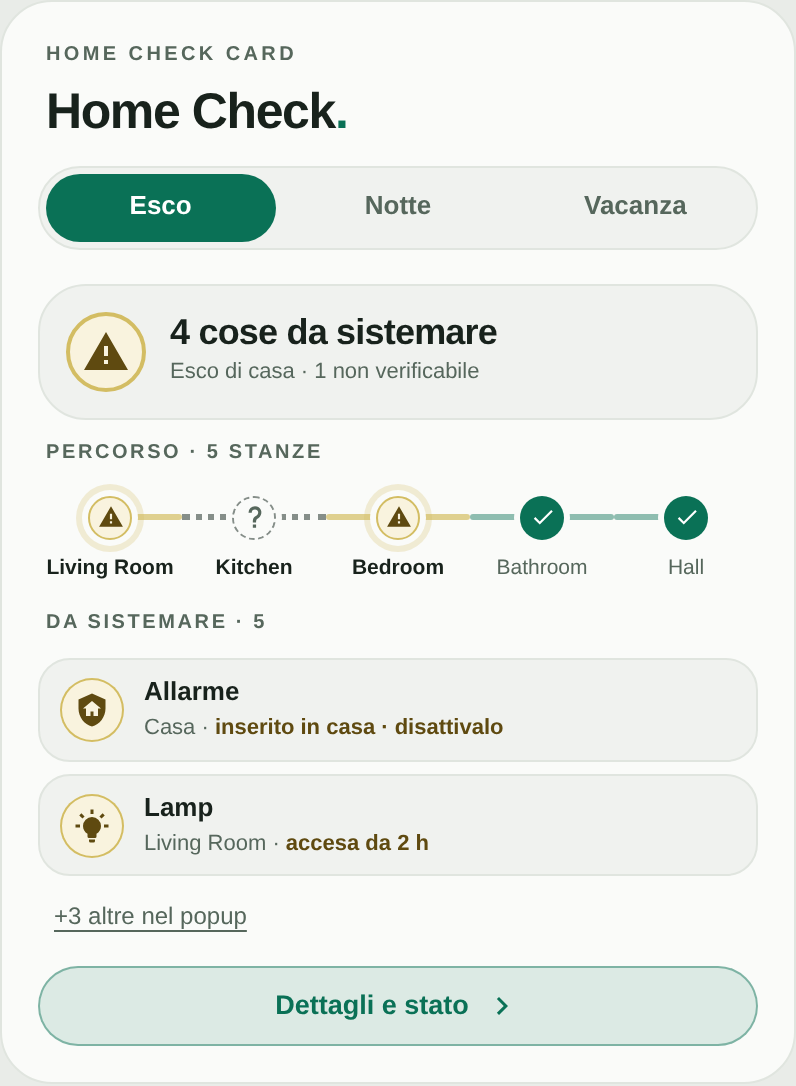
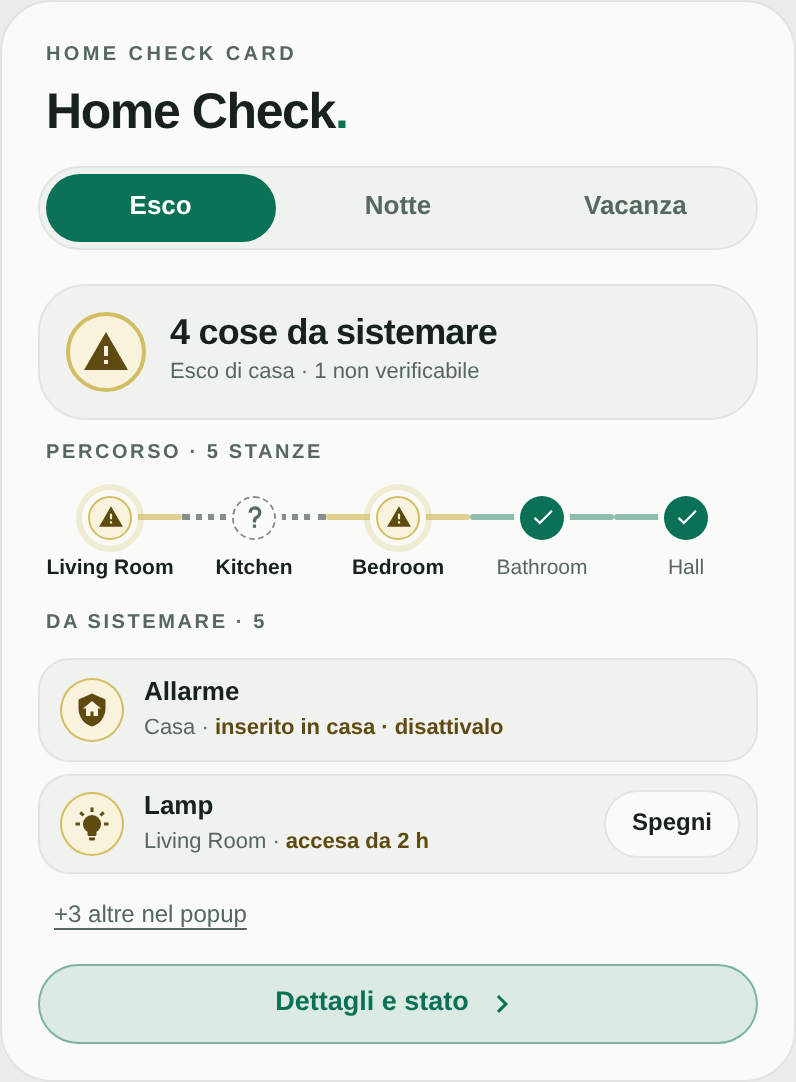
Add quick actions to card rows, keep card height stable and stop moving the page behind the popup

diff --git a/dist/home-check-card.js b/dist/home-check-card.js
@@ -1,5 +1,5 @@
 /**
- * Home Check Card — Home Assistant dashboard card. Version 1.3
+ * Home Check Card — Home Assistant dashboard card. Version 1.4
  * Copyright (c) 2026 luigi-regolo. SPDX-License-Identifier: GPL-3.0-only.
  * Quick actions are optional: turn off lights, TVs and plugs, close covers, arm or disarm the alarm with a code. Locks are never commanded.
  * No external scripts, fonts, analytics or assets.
@@ -7,7 +7,7 @@
 (() => {
   'use strict';
 
-  const VERSION = '1.3';
+  const VERSION = '1.4';
   const TAG = 'home-check-card';
   const EDITOR_TAG = 'home-check-card-editor';
 
@@ -314,6 +314,11 @@
 .hc button.hc-row{cursor:pointer}
 .hc button.hc-row:hover{border-color:color-mix(in srgb,var(--hc-accent) 45%,var(--hc-line))}
 .hc-ico{width:32px;height:32px;flex:none;border-radius:50%;display:grid;place-items:center;background:var(--hc-circle);--is:18px}
+.hc-row{min-height:50px;box-sizing:border-box}
+.hc-ph{visibility:hidden;pointer-events:none}
+.hc-ract{padding:6px 8px 6px 10px}
+.hc-rmain{display:flex;flex:1;align-items:center;gap:10px;min-width:0;background:none;border:0;padding:0;margin:0;color:inherit;font:inherit;text-align:left}
+.hc button.hc-rmain{cursor:pointer}
 .hc-row[data-lv="warn"] .hc-ico{background:var(--hc-warn-bg);box-shadow:inset 0 0 0 1px var(--hc-warn-bd);color:var(--hc-warn-fg)}
 .hc-row[data-lv="crit"] .hc-ico{background:var(--hc-crit-bg);box-shadow:inset 0 0 0 1px var(--hc-crit-bd);color:var(--hc-crit-fg)}
 .hc-row[data-lv="unk"] .hc-ico{border:1.5px dashed var(--hc-idle);color:var(--hc-muted)}
@@ -427,7 +432,6 @@
       this._profile = 'esco'; this._compact = true;
       this._popup = false; this._view = 'list'; this._code = ''; this._pend = {}; this._confirm = false; this._alarmBusy = false; this._alarmErr = ''; this._aconf = false;
       this._filter = 'all'; this._room = null; this._ret = 'open'; this._focus = '';
-      this._prevOverflow = null;
       this._onKey = (e) => this._key(e);
       this._onResize = () => { this._applyLayout(); if (this._popup && this._colCount() !== this._cols) this._render(); };
       this._timer = null; this._ro = null;
@@ -477,7 +481,6 @@
       document.removeEventListener('keydown', this._onKey, true);
       if (this._timer) window.clearInterval(this._timer);
       if (this._ro) this._ro.disconnect();
-      this._unlock();
     }
 
     _applyLayout() {
@@ -512,6 +515,15 @@
     _rowHTML(c) {
       const panel = c.kind === 'alarm' && this._cfg.alarm_panel && c.entity_id;
       const tap = panel || (this._cfg.row_tap && c.entity_id);
+      const act = this._actFor(c);
+      if (act) {
+        const st = this._pend[c.entity_id] || '';
+        const lab = st === 'busy' ? 'Invio…' : st === 'fail' ? 'Riprova' : act.label;
+        const mt = tap ? 'button type="button" data-entity="' + esc(c.entity_id) + '" data-focus="r-' + esc(c.entity_id) + '"' : 'div', me = tap ? 'button' : 'div';
+        return '<div class="hc-row hc-ract" data-lv="' + c.lv + '"><' + mt + ' class="hc-rmain">' +
+          '<div class="hc-ico">' + ic(iconFor(c)) + '</div><div class="hc-rt"><div class="hc-rn">' + esc(c.name) + '</div><div class="hc-rs">' + esc(c.room) + ' \u00b7 <span class="d">' + esc(c.detail) + '</span></div></div></' + me + '>' +
+          '<button type="button" class="hc-do" data-do="' + esc(c.entity_id) + '" data-s="' + st + '" data-focus="d-' + esc(c.entity_id) + '"' + (st === 'busy' ? ' disabled' : '') + '>' + lab + '</button></div>';
+      }
       const tagN = tap ? 'button type="button"' : 'div', end = tap ? 'button' : 'div';
       return '<' + tagN + ' class="hc-row" data-lv="' + c.lv + '"' + (tap ? (panel ? ' data-alarm="1"' : ' data-entity="' + esc(c.entity_id) + '"') + ' data-focus="r-' + esc(c.entity_id) + '"' : '') + '>' +
         '<div class="hc-ico">' + ic(iconFor(c)) + '</div><div class="hc-rt"><div class="hc-rn">' + esc(c.name) + '</div><div class="hc-rs">' + esc(c.room) + ' \u00b7 <span class="d">' + esc(c.detail) + '</span></div></div>' +
@@ -661,7 +673,7 @@
     _openAlarm() {
       this._ret = 'r-' + this._cfg.alarm_entity; this._view = 'alarm'; this._code = ''; this._alarmErr = ''; this._aconf = false; this._alarmBusy = false;
       this._popup = true; this._focus = 'close';
-      this._lock(); document.addEventListener('keydown', this._onKey, true);
+      document.addEventListener('keydown', this._onKey, true);
       this._render();
     }
     _alarmGo(act) {
@@ -702,8 +714,12 @@
         (i > 0 ? '<i class="hc-sl"></i>' : '') + (i < D.rooms.length - 1 ? '<i class="hc-sr"></i>' : '') +
         '<span class="hc-node">' + ic(NODE_ICON[r.lv]) + '</span><span class="hc-sname">' + esc(r.name) + '</span><span class="hc-snote">' + esc(r.note) + '</span></button>').join('');
       let list = '<div class="hc-label">Da sistemare' + (D.items.length ? ' \u00b7 ' + D.items.length : '') + '</div><div class="hc-items">' + shown.map((c) => this._rowHTML(c)).join('');
+      const slots = Math.max(1, capRows), filled = shown.length + (D.items.length ? 0 : 1);
       if (more > 0) list += '<button type="button" class="hc-more" data-open="1" data-focus="more">+' + more + (more === 1 ? ' altra nel popup' : ' altre nel popup') + '</button>';
       if (!D.items.length) list += '<div class="hc-row hc-empty"><div class="hc-ico">' + ic(D.checks.length ? 'mdi:check' : 'mdi:minus') + '</div><div class="hc-rt"><div class="hc-rn">' + (D.checks.length ? 'Niente da sistemare' : 'Nessun controllo attivo') + '</div><div class="hc-rs" style="white-space:normal">' + (D.checks.length ? 'Tutti i controlli del profilo ' + esc(prof.label) + ' sono a posto' : 'Abilita una categoria nell\u2019editor') + '</div></div></div>';
+      for (let i = filled; i < slots; i++) list += '<div class="hc-row hc-ph" aria-hidden="true"></div>';
+      if (more <= 0) list += '<div class="hc-more hc-ph" aria-hidden="true">&nbsp;</div>';
+      if (this._profile !== 'vacanza' && cfg.simulation_entity) list += '<div class="hc-sim hc-ph" aria-hidden="true">' + ic('mdi:clock-outline') + '<span>Simulazione presenza non attiva</span></div>';
       if (this._profile === 'vacanza' && cfg.simulation_entity) {
         const ss = hass.states[cfg.simulation_entity];
         list += '<div class="hc-sim">' + ic('mdi:clock-outline') + '<span>' + (ss && ss.state === 'on' ? 'Simulazione presenza attiva' : (ss && (ss.state === 'unavailable' || ss.state === 'unknown') ? 'Simulazione presenza non verificabile' : 'Simulazione presenza non attiva')) + '</span></div>';
@@ -726,6 +742,7 @@
           this._room = null;
         }
       }
+      if (this._popup) this._lockScroll();
       if (want) { const el = root.querySelector('[data-focus="' + want + '"]'); if (el) el.focus({ preventScroll: true }); }
     }
 
@@ -756,16 +773,26 @@
     }
     _openPopup(room, ret) {
       this._ret = ret || 'open'; this._popup = true; this._view = 'list'; this._confirm = false; this._filter = compute(this._hass, this._cfg, this._profile).items.length ? 'bad' : 'all'; this._room = room; this._focus = 'close';
-      this._lock(); document.addEventListener('keydown', this._onKey, true);
+      document.addEventListener('keydown', this._onKey, true);
       this._render();
     }
     _closePopup(silent) {
       if (!this._popup) return;
-      this._popup = false; this._view = 'list'; this._code = ''; this._alarmErr = ''; this._aconf = false; this._confirm = false; document.removeEventListener('keydown', this._onKey, true); this._unlock();
+      this._popup = false; this._view = 'list'; this._code = ''; this._alarmErr = ''; this._aconf = false; this._confirm = false; document.removeEventListener('keydown', this._onKey, true);
       this._focus = silent ? '' : this._ret; this._render();
     }
-    _lock() { if (this._prevOverflow === null) { this._prevOverflow = document.documentElement.style.overflow || ''; document.documentElement.style.overflow = 'hidden'; } }
-    _unlock() { if (this._prevOverflow !== null) { document.documentElement.style.overflow = this._prevOverflow; this._prevOverflow = null; } }
+    // While the popup is open the dashboard behind must not move: the page is never restyled,
+    // scroll gestures that would leave the dialog body are simply cancelled.
+    _lockScroll() {
+      const overlay = this._root.querySelector('.hc-backdrop');
+      if (!overlay) return;
+      const body = overlay.querySelector('.hc-mbody');
+      const atEdge = (dy) => !body || (dy < 0 && body.scrollTop <= 0) || (dy > 0 && body.scrollTop + body.clientHeight >= body.scrollHeight - 1);
+      overlay.addEventListener('wheel', (e) => { if (!body || !body.contains(e.target) || atEdge(e.deltaY)) e.preventDefault(); }, { passive: false });
+      let y = 0;
+      overlay.addEventListener('touchstart', (e) => { const t = e.touches[0]; y = t ? t.clientY : 0; }, { passive: true });
+      overlay.addEventListener('touchmove', (e) => { const t = e.touches[0], dy = y - (t ? t.clientY : y); if (!body || !body.contains(e.target) || atEdge(dy)) e.preventDefault(); }, { passive: false });
+    }
     _key(e) {
       if (!this._popup) return;
       if (e.key === 'Escape') { e.stopPropagation(); this._closePopup(); return; }

diff --git a/src/home-check-card.js b/src/home-check-card.js
@@ -1,5 +1,5 @@
 /**
- * Home Check Card — Home Assistant dashboard card. Version 1.3
+ * Home Check Card — Home Assistant dashboard card. Version 1.4
  * Copyright (c) 2026 luigi-regolo. SPDX-License-Identifier: GPL-3.0-only.
  * Quick actions are optional: turn off lights, TVs and plugs, close covers, arm or disarm the alarm with a code. Locks are never commanded.
  * No external scripts, fonts, analytics or assets.
@@ -7,7 +7,7 @@
 (() => {
   'use strict';
 
-  const VERSION = '1.3';
+  const VERSION = '1.4';
   const TAG = 'home-check-card';
   const EDITOR_TAG = 'home-check-card-editor';
 
@@ -314,6 +314,11 @@
 .hc button.hc-row{cursor:pointer}
 .hc button.hc-row:hover{border-color:color-mix(in srgb,var(--hc-accent) 45%,var(--hc-line))}
 .hc-ico{width:32px;height:32px;flex:none;border-radius:50%;display:grid;place-items:center;background:var(--hc-circle);--is:18px}
+.hc-row{min-height:50px;box-sizing:border-box}
+.hc-ph{visibility:hidden;pointer-events:none}
+.hc-ract{padding:6px 8px 6px 10px}
+.hc-rmain{display:flex;flex:1;align-items:center;gap:10px;min-width:0;background:none;border:0;padding:0;margin:0;color:inherit;font:inherit;text-align:left}
+.hc button.hc-rmain{cursor:pointer}
 .hc-row[data-lv="warn"] .hc-ico{background:var(--hc-warn-bg);box-shadow:inset 0 0 0 1px var(--hc-warn-bd);color:var(--hc-warn-fg)}
 .hc-row[data-lv="crit"] .hc-ico{background:var(--hc-crit-bg);box-shadow:inset 0 0 0 1px var(--hc-crit-bd);color:var(--hc-crit-fg)}
 .hc-row[data-lv="unk"] .hc-ico{border:1.5px dashed var(--hc-idle);color:var(--hc-muted)}
@@ -427,7 +432,6 @@
       this._profile = 'esco'; this._compact = true;
       this._popup = false; this._view = 'list'; this._code = ''; this._pend = {}; this._confirm = false; this._alarmBusy = false; this._alarmErr = ''; this._aconf = false;
       this._filter = 'all'; this._room = null; this._ret = 'open'; this._focus = '';
-      this._prevOverflow = null;
       this._onKey = (e) => this._key(e);
       this._onResize = () => { this._applyLayout(); if (this._popup && this._colCount() !== this._cols) this._render(); };
       this._timer = null; this._ro = null;
@@ -477,7 +481,6 @@
       document.removeEventListener('keydown', this._onKey, true);
       if (this._timer) window.clearInterval(this._timer);
       if (this._ro) this._ro.disconnect();
-      this._unlock();
     }
 
     _applyLayout() {
@@ -512,6 +515,15 @@
     _rowHTML(c) {
       const panel = c.kind === 'alarm' && this._cfg.alarm_panel && c.entity_id;
       const tap = panel || (this._cfg.row_tap && c.entity_id);
+      const act = this._actFor(c);
+      if (act) {
+        const st = this._pend[c.entity_id] || '';
+        const lab = st === 'busy' ? 'Invio…' : st === 'fail' ? 'Riprova' : act.label;
+        const mt = tap ? 'button type="button" data-entity="' + esc(c.entity_id) + '" data-focus="r-' + esc(c.entity_id) + '"' : 'div', me = tap ? 'button' : 'div';
+        return '<div class="hc-row hc-ract" data-lv="' + c.lv + '"><' + mt + ' class="hc-rmain">' +
+          '<div class="hc-ico">' + ic(iconFor(c)) + '</div><div class="hc-rt"><div class="hc-rn">' + esc(c.name) + '</div><div class="hc-rs">' + esc(c.room) + ' \u00b7 <span class="d">' + esc(c.detail) + '</span></div></div></' + me + '>' +
+          '<button type="button" class="hc-do" data-do="' + esc(c.entity_id) + '" data-s="' + st + '" data-focus="d-' + esc(c.entity_id) + '"' + (st === 'busy' ? ' disabled' : '') + '>' + lab + '</button></div>';
+      }
       const tagN = tap ? 'button type="button"' : 'div', end = tap ? 'button' : 'div';
       return '<' + tagN + ' class="hc-row" data-lv="' + c.lv + '"' + (tap ? (panel ? ' data-alarm="1"' : ' data-entity="' + esc(c.entity_id) + '"') + ' data-focus="r-' + esc(c.entity_id) + '"' : '') + '>' +
         '<div class="hc-ico">' + ic(iconFor(c)) + '</div><div class="hc-rt"><div class="hc-rn">' + esc(c.name) + '</div><div class="hc-rs">' + esc(c.room) + ' \u00b7 <span class="d">' + esc(c.detail) + '</span></div></div>' +
@@ -661,7 +673,7 @@
     _openAlarm() {
       this._ret = 'r-' + this._cfg.alarm_entity; this._view = 'alarm'; this._code = ''; this._alarmErr = ''; this._aconf = false; this._alarmBusy = false;
       this._popup = true; this._focus = 'close';
-      this._lock(); document.addEventListener('keydown', this._onKey, true);
+      document.addEventListener('keydown', this._onKey, true);
       this._render();
     }
     _alarmGo(act) {
@@ -702,8 +714,12 @@
         (i > 0 ? '<i class="hc-sl"></i>' : '') + (i < D.rooms.length - 1 ? '<i class="hc-sr"></i>' : '') +
         '<span class="hc-node">' + ic(NODE_ICON[r.lv]) + '</span><span class="hc-sname">' + esc(r.name) + '</span><span class="hc-snote">' + esc(r.note) + '</span></button>').join('');
       let list = '<div class="hc-label">Da sistemare' + (D.items.length ? ' \u00b7 ' + D.items.length : '') + '</div><div class="hc-items">' + shown.map((c) => this._rowHTML(c)).join('');
+      const slots = Math.max(1, capRows), filled = shown.length + (D.items.length ? 0 : 1);
       if (more > 0) list += '<button type="button" class="hc-more" data-open="1" data-focus="more">+' + more + (more === 1 ? ' altra nel popup' : ' altre nel popup') + '</button>';
       if (!D.items.length) list += '<div class="hc-row hc-empty"><div class="hc-ico">' + ic(D.checks.length ? 'mdi:check' : 'mdi:minus') + '</div><div class="hc-rt"><div class="hc-rn">' + (D.checks.length ? 'Niente da sistemare' : 'Nessun controllo attivo') + '</div><div class="hc-rs" style="white-space:normal">' + (D.checks.length ? 'Tutti i controlli del profilo ' + esc(prof.label) + ' sono a posto' : 'Abilita una categoria nell\u2019editor') + '</div></div></div>';
+      for (let i = filled; i < slots; i++) list += '<div class="hc-row hc-ph" aria-hidden="true"></div>';
+      if (more <= 0) list += '<div class="hc-more hc-ph" aria-hidden="true">&nbsp;</div>';
+      if (this._profile !== 'vacanza' && cfg.simulation_entity) list += '<div class="hc-sim hc-ph" aria-hidden="true">' + ic('mdi:clock-outline') + '<span>Simulazione presenza non attiva</span></div>';
       if (this._profile === 'vacanza' && cfg.simulation_entity) {
         const ss = hass.states[cfg.simulation_entity];
         list += '<div class="hc-sim">' + ic('mdi:clock-outline') + '<span>' + (ss && ss.state === 'on' ? 'Simulazione presenza attiva' : (ss && (ss.state === 'unavailable' || ss.state === 'unknown') ? 'Simulazione presenza non verificabile' : 'Simulazione presenza non attiva')) + '</span></div>';
@@ -726,6 +742,7 @@
           this._room = null;
         }
       }
+      if (this._popup) this._lockScroll();
       if (want) { const el = root.querySelector('[data-focus="' + want + '"]'); if (el) el.focus({ preventScroll: true }); }
     }
 
@@ -756,16 +773,26 @@
     }
     _openPopup(room, ret) {
       this._ret = ret || 'open'; this._popup = true; this._view = 'list'; this._confirm = false; this._filter = compute(this._hass, this._cfg, this._profile).items.length ? 'bad' : 'all'; this._room = room; this._focus = 'close';
-      this._lock(); document.addEventListener('keydown', this._onKey, true);
+      document.addEventListener('keydown', this._onKey, true);
       this._render();
     }
     _closePopup(silent) {
       if (!this._popup) return;
-      this._popup = false; this._view = 'list'; this._code = ''; this._alarmErr = ''; this._aconf = false; this._confirm = false; document.removeEventListener('keydown', this._onKey, true); this._unlock();
+      this._popup = false; this._view = 'list'; this._code = ''; this._alarmErr = ''; this._aconf = false; this._confirm = false; document.removeEventListener('keydown', this._onKey, true);
       this._focus = silent ? '' : this._ret; this._render();
     }
-    _lock() { if (this._prevOverflow === null) { this._prevOverflow = document.documentElement.style.overflow || ''; document.documentElement.style.overflow = 'hidden'; } }
-    _unlock() { if (this._prevOverflow !== null) { document.documentElement.style.overflow = this._prevOverflow; this._prevOverflow = null; } }
+    // While the popup is open the dashboard behind must not move: the page is never restyled,
+    // scroll gestures that would leave the dialog body are simply cancelled.
+    _lockScroll() {
+      const overlay = this._root.querySelector('.hc-backdrop');
+      if (!overlay) return;
+      const body = overlay.querySelector('.hc-mbody');
+      const atEdge = (dy) => !body || (dy < 0 && body.scrollTop <= 0) || (dy > 0 && body.scrollTop + body.clientHeight >= body.scrollHeight - 1);
+      overlay.addEventListener('wheel', (e) => { if (!body || !body.contains(e.target) || atEdge(e.deltaY)) e.preventDefault(); }, { passive: false });
+      let y = 0;
+      overlay.addEventListener('touchstart', (e) => { const t = e.touches[0]; y = t ? t.clientY : 0; }, { passive: true });
+      overlay.addEventListener('touchmove', (e) => { const t = e.touches[0], dy = y - (t ? t.clientY : y); if (!body || !body.contains(e.target) || atEdge(dy)) e.preventDefault(); }, { passive: false });
+    }
     _key(e) {
       if (!this._popup) return;
       if (e.key === 'Escape') { e.stopPropagation(); this._closePopup(); return; }
